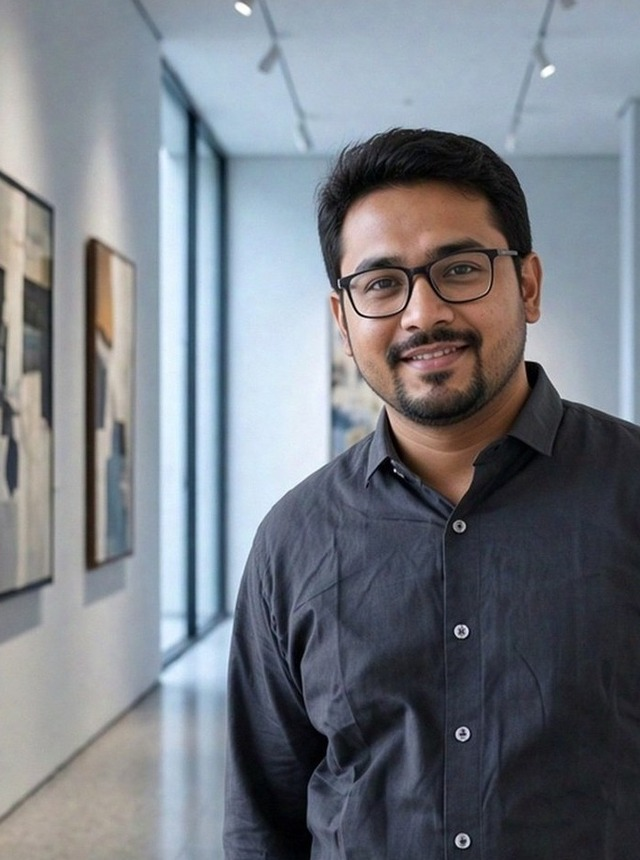
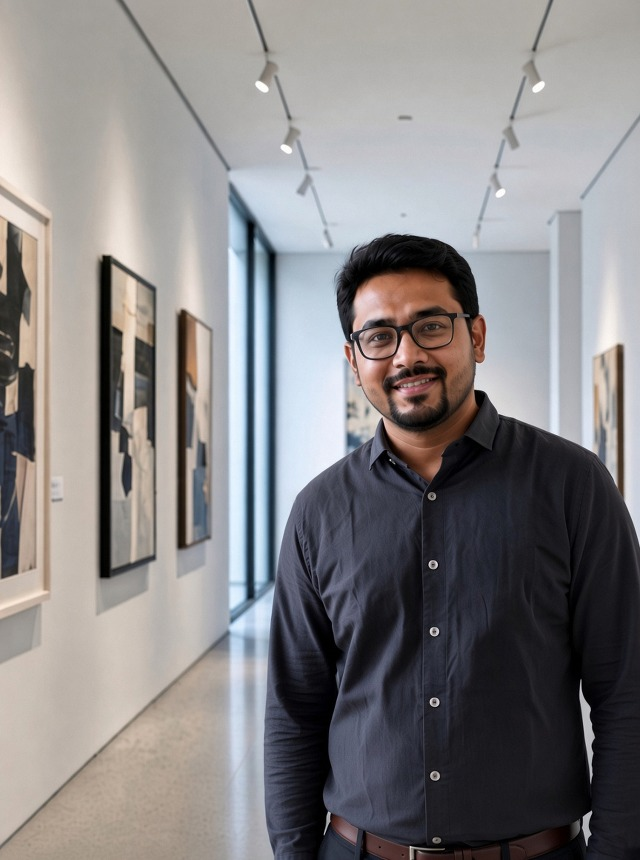
Zoom out Rohan Desai DP with gallery extend (desk138)
Outpaint from the desk133 lineage to a waist-up half-body gallery
framing (faceH ~0.19), improving on the still-tight desk137 crop-only
pullback. Sync site + Flutter assets; cache-bust desk138 / JPEG ?v=11.

diff --git a/js/app.js b/js/app.js
@@ -813,7 +813,7 @@ const MENTORS = [
   { name: "Vikram Singh", role: "Price action coach", tag: "Swing trading", img: "https://images.unsplash.com/photo-1506794778202-cad84cf45f1d?auto=format&fit=crop&w=640&h=860&q=80" },
   { name: "Ananya Rao", role: "Long-term investor", tag: "Portfolio", img: "https://images.unsplash.com/photo-1573496359142-b8d87734a5a2?auto=format&fit=crop&w=640&h=860&q=80" },
   { name: "Kabir Joshi", role: "Index options", tag: "Bank Nifty", img: "/img/instructors/kabir-joshi.jpg?v=9" },
-  { name: "Rohan Desai", role: "Fund researcher", tag: "Mutual funds", img: "/img/instructors/rohan-desai.jpg?v=9" },
+  { name: "Rohan Desai", role: "Fund researcher", tag: "Mutual funds", img: "/img/instructors/rohan-desai.jpg?v=11" },
   { name: "Priya Nair", role: "Asset allocation", tag: "SIP lab", img: "https://images.unsplash.com/photo-1580489944761-15a19d654956?auto=format&fit=crop&w=640&h=860&q=80" },
   { name: "Meera Iyer", role: "Options coach", tag: "Defined risk", img: "https://images.unsplash.com/photo-1438761681033-6461ffad8d80?auto=format&fit=crop&w=640&h=860&q=80" }
 ];
@@ -4922,6 +4922,7 @@ function traderIcon(kind) {
 /* cache-bust desk134: Rohan Desai DP center face for circle/avatar crop /img/instructors/rohan-desai.jpg?v=7 */
 /* cache-bust desk135: edge purge after CF poison on #86 (app.js?v=desk134 held desk133; Rohan JPEG ?v=7 held v6) /img/instructors/rohan-desai.jpg?v=8 */
 /* cache-bust desk136: Rohan Desai DP widen framing (crop-only from desk133 flutter) /img/instructors/rohan-desai.jpg?v=9 */
+/* cache-bust desk138: Rohan Desai DP zoom-out extend gallery half-body /img/instructors/rohan-desai.jpg?v=11 */
 function traderCardHTML(m, i, opts = {}) {
   const title = String(m.role || m.tag || "Mentor").trim();
   const cloneAttrs = opts.clone ? ' tabindex="-1" aria-hidden="true"' : "";

diff --git a/account.html b/account.html
@@ -17,7 +17,7 @@
   <div id="site-header"></div>
   <main id="accountRoot" class="ld-page"></main>
   <div id="site-footer"></div>
-  <script src="/js/app.js?v=desk136" defer></script>
+  <script src="/js/app.js?v=desk138" defer></script>
   <script src="/js/lms.js?v=cert2" defer></script>
 </body>
 </html>

diff --git a/learning.html b/learning.html
@@ -17,7 +17,7 @@
   <div id="site-header"></div>
   <main id="myLearning" class="ld-page"></main>
   <div id="site-footer"></div>
-  <script src="/js/app.js?v=desk136" defer></script>
+  <script src="/js/app.js?v=desk138" defer></script>
   <script src="/js/lms.js?v=cert2" defer></script>
 </body>
 </html>

diff --git a/course.html b/course.html
@@ -22,7 +22,7 @@
     </div>
   </main>
   <div id="site-footer"></div>
-  <script src="/js/app.js?v=desk136" defer></script>
+  <script src="/js/app.js?v=desk138" defer></script>
   <script src="/js/lms.js?v=cert2" defer></script>
   <script src="/js/drm.js?v=desk29" defer></script>
 </body>

diff --git a/contact.html b/contact.html
@@ -48,7 +48,7 @@
   </main>
   <div id="site-footer"></div>
   <script src="/js/help-faqs.js?v=faq1" defer></script>
-  <script src="/js/app.js?v=desk136" defer></script>
+  <script src="/js/app.js?v=desk138" defer></script>
   <script src="/js/lms.js" defer></script>
 </body>
 </html>

diff --git a/certificate.html b/certificate.html
@@ -19,7 +19,7 @@
     <div id="certRoot"></div>
   </main>
   <div id="site-footer"></div>
-  <script src="/js/app.js?v=desk136" defer></script>
+  <script src="/js/app.js?v=desk138" defer></script>
   <script src="/js/lms.js?v=cert2" defer></script>
 </body>
 </html>

diff --git a/control.html b/control.html
@@ -253,7 +253,7 @@
         loading = true;
         busy(true);
         var files = [
-          "/js/app.js?v=desk136",
+          "/js/app.js?v=desk138",
           "/js/lms.js",
           "/js/admin-core.js?v=desk8",
           "/js/admin.js?v=drm5",

diff --git a/index.html b/index.html
@@ -415,7 +415,7 @@
     </section>
   </main>
   <div id="site-footer"></div>
-  <script src="/js/app.js?v=desk136" defer></script>
+  <script src="/js/app.js?v=desk138" defer></script>
   <script src="/js/lms.js?v=cert2" defer></script>
 </body>
 </html>

diff --git a/live-room.html b/live-room.html
@@ -22,7 +22,7 @@
 </head>
 <body class="live-room-page">
   <div id="liveRoom"></div>
-  <script src="/js/app.js?v=desk136" defer></script>
+  <script src="/js/app.js?v=desk138" defer></script>
   <script src="/js/lms.js" defer></script>
 </body>
 </html>

diff --git a/nifty-options.html b/nifty-options.html
@@ -44,7 +44,7 @@
     </section>
   </main>
   <div id="site-footer"></div>
-  <script src="/js/app.js?v=desk136" defer></script>
+  <script src="/js/app.js?v=desk138" defer></script>
   <script src="/js/lms.js?v=cert2" defer></script>
 </body>
 </html>

diff --git a/option-trading-course.html b/option-trading-course.html
@@ -44,7 +44,7 @@
     </section>
   </main>
   <div id="site-footer"></div>
-  <script src="/js/app.js?v=desk136" defer></script>
+  <script src="/js/app.js?v=desk138" defer></script>
   <script src="/js/lms.js?v=cert2" defer></script>
 </body>
 </html>

diff --git a/share-market-course-in-hindi.html b/share-market-course-in-hindi.html
@@ -42,7 +42,7 @@
     </section>
   </main>
   <div id="site-footer"></div>
-  <script src="/js/app.js?v=desk136" defer></script>
+  <script src="/js/app.js?v=desk138" defer></script>
   <script src="/js/lms.js?v=cert2" defer></script>
 </body>
 </html>
